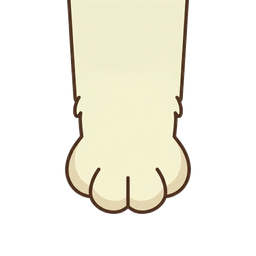
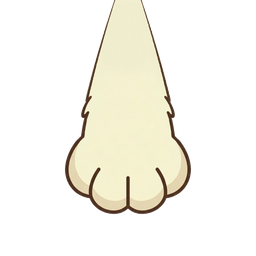
fix: adjust cat paw size to 96px and match Phaser arm colors and width to wrist for seamless blending

Changed region(s): [[0.5312, 0.0, 0.75, 0.5625], [0.25, 0.0, 0.4688, 0.5625]]

diff --git a/process-paws.js b/process-paws.js
@@ -31,7 +31,7 @@ async function processPaw(inputPath, outputName) {
   const width = info.width;
   const height = info.height;
   const pixelCount = width * height;
-  const newData = Buffer.alloc(pixelCount * 4);
+  const tempBuf = Buffer.alloc(pixelCount * 4);
 
   // 1. Convert white background to transparency
   for (let i = 0; i < pixelCount; i++) {
@@ -42,58 +42,115 @@ async function processPaw(inputPath, outputName) {
     const isWhite = r >= 245 && g >= 245 && b >= 245;
 
     if (isWhite) {
-      newData[i * 4] = 0;
-      newData[i * 4 + 1] = 0;
-      newData[i * 4 + 2] = 0;
-      newData[i * 4 + 3] = 0; // Transparent
+      tempBuf[i * 4] = 0;
+      tempBuf[i * 4 + 1] = 0;
+      tempBuf[i * 4 + 2] = 0;
+      tempBuf[i * 4 + 3] = 0; // Transparent
     } else {
-      newData[i * 4] = r;
-      newData[i * 4 + 1] = g;
-      newData[i * 4 + 2] = b;
-      newData[i * 4 + 3] = 255; // Opaque
+      tempBuf[i * 4] = r;
+      tempBuf[i * 4 + 1] = g;
+      tempBuf[i * 4 + 2] = b;
+      tempBuf[i * 4 + 3] = 255; // Opaque
     }
   }
 
-  // 2. Automagic Arm Extension: if the top is rounded, extend the arm straight up to the edge
+  // 2. Automagic Arm Extension for rounded-top paws
   let extRowY = -1;
-  const minArmWidth = Math.floor(width * 0.15); // Require at least 15% width of image to be the arm
+  const minArmWidth = Math.floor(width * 0.15); // At least 15% width of image
   
   for (let y = 0; y < height; y++) {
     let firstOpaqueX = -1;
     let lastOpaqueX = -1;
     for (let x = 0; x < width; x++) {
       const idx = (y * width + x) * 4;
-      if (newData[idx + 3] > 0) {
+      if (tempBuf[idx + 3] > 0) {
         if (firstOpaqueX === -1) firstOpaqueX = x;
         lastOpaqueX = x;
       }
     }
     const rowWidth = (firstOpaqueX !== -1) ? (lastOpaqueX - firstOpaqueX + 1) : 0;
     
-    // We scan down from the top. The first row that has a stable arm width (e.g. at least 15% width)
     if (rowWidth >= minArmWidth) {
       extRowY = y;
       break;
     }
   }
 
-  // If we found a stable row, copy it straight up to the top of the canvas
   if (extRowY > 0) {
-    console.log(`🔧 Extendiéndo el antebrazo verticalmente desde la fila y=${extRowY} hasta la parte superior (y=0)...`);
+    console.log(`  🔧 Extendiéndo el antebrazo verticalmente desde la fila y=${extRowY}...`);
     for (let y = 0; y < extRowY; y++) {
       for (let x = 0; x < width; x++) {
         const targetIdx = (y * width + x) * 4;
         const sourceIdx = (extRowY * width + x) * 4;
-        newData[targetIdx] = newData[sourceIdx];
-        newData[targetIdx + 1] = newData[sourceIdx + 1];
-        newData[targetIdx + 2] = newData[sourceIdx + 2];
-        newData[targetIdx + 3] = newData[sourceIdx + 3];
+        tempBuf[targetIdx] = tempBuf[sourceIdx];
+        tempBuf[targetIdx + 1] = tempBuf[sourceIdx + 1];
+        tempBuf[targetIdx + 2] = tempBuf[sourceIdx + 2];
+        tempBuf[targetIdx + 3] = tempBuf[sourceIdx + 3];
       }
     }
   }
 
-  // Create sharp image and resize/trim to standard 256x256
-  await sharp(newData, {
+  // 3. Taper and Normalize Wrist Width to exactly 110 pixels at the top edge (y=0)
+  // This ensures both open and closed paws have identical wrist width and align perfectly with the arm!
+  const targetWristWidth = 110;
+  const targetLeft = Math.floor((width - targetWristWidth) / 2); // 73
+  const targetRight = targetLeft + targetWristWidth - 1; // 182
+  const transitionY = Math.floor(height * 0.55); // Transition arm tapering down to 55% of height
+
+  const finalBuf = Buffer.alloc(pixelCount * 4);
+
+  for (let y = 0; y < height; y++) {
+    // Find boundaries of the arm in the current row of tempBuf
+    let leftSrc = -1;
+    let rightSrc = -1;
+    for (let x = 0; x < width; x++) {
+      const idx = (y * width + x) * 4;
+      if (tempBuf[idx + 3] > 0) {
+        if (leftSrc === -1) leftSrc = x;
+        rightSrc = x;
+      }
+    }
+
+    const rowWidth = (leftSrc !== -1) ? (rightSrc - leftSrc + 1) : 0;
+
+    // If we are in the tapering region (forearm/wrist area) and there is content in this row
+    if (y < transitionY && rowWidth > 0) {
+      const ratio = y / transitionY;
+      const leftDst = Math.round(targetLeft + (leftSrc - targetLeft) * ratio);
+      const rightDst = Math.round(targetRight + (rightSrc - targetRight) * ratio);
+      const newWidth = rightDst - leftDst + 1;
+
+      for (let x = 0; x < width; x++) {
+        const destIdx = (y * width + x) * 4;
+        if (x < leftDst || x > rightDst || newWidth <= 1) {
+          finalBuf[destIdx] = 0;
+          finalBuf[destIdx + 1] = 0;
+          finalBuf[destIdx + 2] = 0;
+          finalBuf[destIdx + 3] = 0;
+        } else {
+          // Map x to source coordinate
+          const srcX = Math.round(leftSrc + ((x - leftDst) / (newWidth - 1)) * (rightSrc - leftSrc));
+          const srcIdx = (y * width + Math.max(0, Math.min(width - 1, srcX))) * 4;
+          finalBuf[destIdx] = tempBuf[srcIdx];
+          finalBuf[destIdx + 1] = tempBuf[srcIdx + 1];
+          finalBuf[destIdx + 2] = tempBuf[srcIdx + 2];
+          finalBuf[destIdx + 3] = tempBuf[srcIdx + 3];
+        }
+      }
+    } else {
+      // Copy row as is
+      for (let x = 0; x < width; x++) {
+        const idx = (y * width + x) * 4;
+        finalBuf[idx] = tempBuf[idx];
+        finalBuf[idx + 1] = tempBuf[idx + 1];
+        finalBuf[idx + 2] = tempBuf[idx + 2];
+        finalBuf[idx + 3] = tempBuf[idx + 3];
+      }
+    }
+  }
+
+  // Save the normalized image
+  await sharp(finalBuf, {
     raw: {
       width: width,
       height: height,
@@ -107,12 +164,11 @@ async function processPaw(inputPath, outputName) {
   .png()
   .toFile(outputPath);
 
-  console.log(`✅ Procesado con éxito y guardado en: ${outputPath}`);
+  console.log(`✅ Procesado y Normalizado guardado en: ${outputPath}`);
   return true;
 }
 
 async function run() {
-  // Try to process both potential extensions (.jpg, .jpeg, .png)
   const filesToTry = [
     { input: 'cat_paw_open.jpg', output: 'cat_paw_open.png' },
     { input: 'cat_paw_open.jpeg', output: 'cat_paw_open.png' },
@@ -122,10 +178,8 @@ async function run() {
 
   let processedCount = 0;
   for (const pair of filesToTry) {
-    // Check in temp folder first
     let inputPath = path.join(TEMP_DIR, pair.input);
     if (!fs.existsSync(inputPath)) {
-      // Fallback to public/ directly
       inputPath = path.join(__dirname, 'public', pair.input);
     }
 
@@ -136,7 +190,7 @@ async function run() {
   }
 
   if (processedCount === 0) {
-    console.log('⚠️ No se encontraron archivos nuevos para procesar. Por favor coloca cat_paw_open.jpg y cat_paw_closed.jpg en public/assets/ui_temp_jpg/');
+    console.log('⚠️ No se encontraron archivos nuevos para procesar.');
   }
 }
 

diff --git a/src/scenes/GameScene.js b/src/scenes/GameScene.js
@@ -151,7 +151,10 @@ export default class GameScene extends Phaser.Scene {
     this.pawY = height / 2;
 
     this.catArmGraphics = this.add.graphics().setDepth(10000);
-    this.catPawSprite = this.add.image(this.pawX, this.pawY, 'cat_paw_open').setDepth(10000).setOrigin(0.5, 0.55);
+    this.catPawSprite = this.add.image(this.pawX, this.pawY, 'cat_paw_open')
+      .setDepth(10000)
+      .setOrigin(0.5, 0.55)
+      .setDisplaySize(96, 96);
 
     // Track pointerdown/pointerup to trigger grab animation (texture swap)
     this.input.on('pointerdown', () => {
@@ -2025,12 +2028,12 @@ export default class GameScene extends Phaser.Scene {
       );
       const points = curve.getPoints(24);
 
-      // Outer outline (brown)
-      this.catArmGraphics.lineStyle(42, 0x582f0e);
+      // Outer outline (matching the sprite's dark brown #4e3629)
+      this.catArmGraphics.lineStyle(42, 0x4e3629);
       this.catArmGraphics.strokePoints(points);
 
-      // Inner fill (cream fur matching the paw asset)
-      this.catArmGraphics.lineStyle(34, 0xf5ebe0);
+      // Inner fill (matching the sprite's cream fur #fdfbf7)
+      this.catArmGraphics.lineStyle(34, 0xfdfbf7);
       this.catArmGraphics.strokePoints(points);
     }
   }